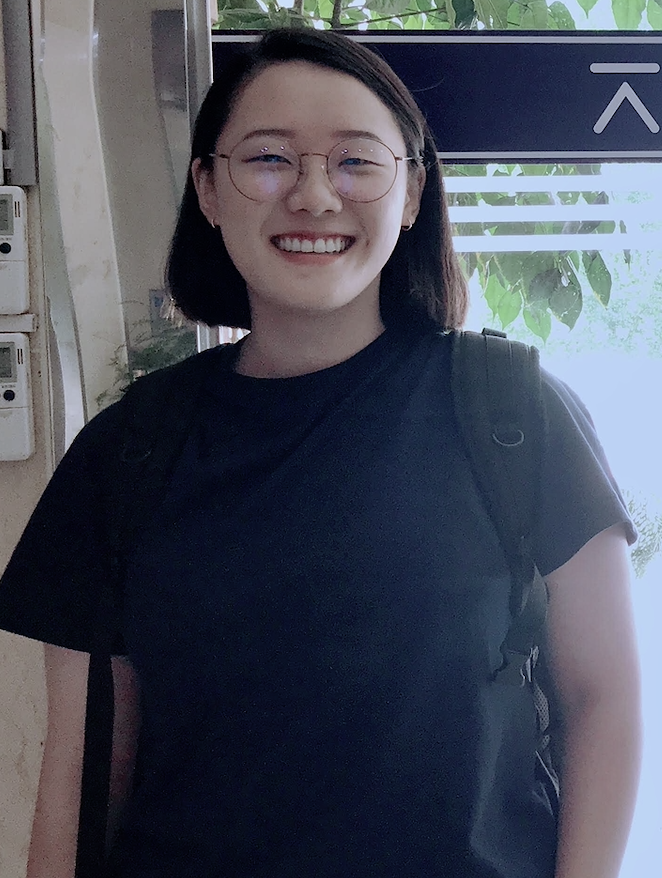
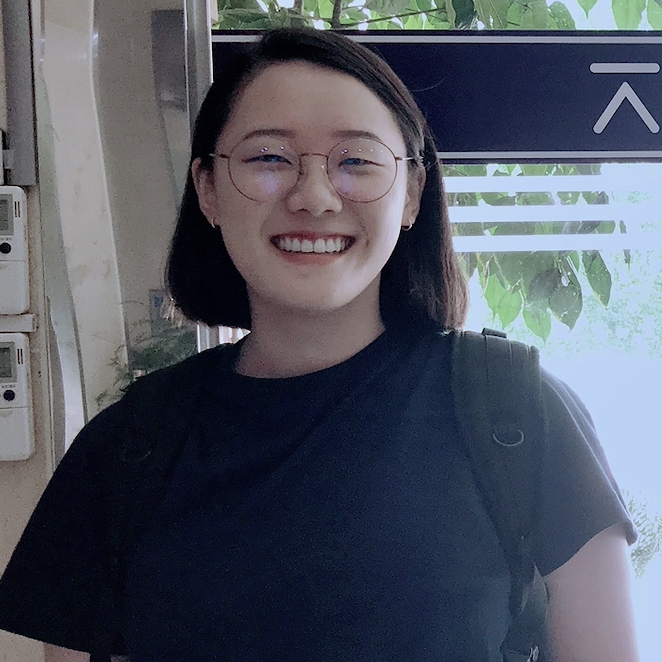
Make tutor photos square and the same size
Resolves #2

diff --git a/src/tutors/index.html b/src/tutors/index.html
@@ -163,7 +163,7 @@
         <div id="contentHeader">
           
           <div class="articleEntry" style="background: none">
-            <img src="../images/tutor-photos/nicole_photo.jpg" alt="Nicole Photo" width="175" height="140">
+            <img src="../images/tutor-photos/nicole_photo.jpg" alt="Nicole Photo" width="175" height="175">
             <div>
               <h1 id="head-tutor">Head Tutor: Nicole Anderson-Au</h1>
               <p class="subtitle">Class of 2020, nander17@calpoly.edu</p>
@@ -181,7 +181,7 @@
           </div>
 
           <div class="articleEntry">
-            <img src="../images/tutor-photos/austin_photo.jpg" alt="Austin Photo" width="175" height="140">
+            <img src="../images/tutor-photos/austin_photo.jpg" alt="Austin Photo" width="175" height="175">
             <div>
               <h2>Austin Shin</h2>
               <p class="subtitle">Class of 2021</p>
@@ -197,7 +197,7 @@
           </div>
 
           <div class="articleEntry">
-            <img src="../images/tutor-photos/cole_photo.jpg" alt="Cole Photo" width="175" height="140">
+            <img src="../images/tutor-photos/cole_photo.jpg" alt="Cole Photo" width="175" height="175">
             <div>
               <h2>Cole Cummins</h2>
               <p class="subtitle">Class of 2020</p>
@@ -213,7 +213,7 @@
           </div>
 
           <div class="articleEntry">
-            <img src="../images/tutor-photos/james_photo.JPG" alt="James Photo" width="175" height="140">
+            <img src="../images/tutor-photos/james_photo.JPG" alt="James Photo" width="175" height="175">
             <div>
               <h2>James Asbury</h2>
               <p class="subtitle">Class of 2020</p>
@@ -230,7 +230,7 @@
           </div>
 
           <div class="articleEntry">
-            <img src="../images/tutor-photos/jeremy_photo.jpg" alt="Jeremy Photo" width="175" height="140">
+            <img src="../images/tutor-photos/jeremy_photo.jpg" alt="Jeremy Photo" width="175" height="175">
             <div>
               <h2>Jeremy Berchtold</h2>
               <p class="subtitle">Class of 2021</p>
@@ -245,7 +245,7 @@
           </div>
 
           <div class="articleEntry">
-            <img src="../images/tutor-photos/jiwon_photo.jpg" alt="Jiwon Photo" width="175" height="140">
+            <img src="../images/tutor-photos/jiwon_photo.jpg" alt="Jiwon Photo" width="175" height="175">
             <div>
               <h2>Jiwon Lee</h2>
               <p class="subtitle">Class of 2021</p>
@@ -262,7 +262,7 @@
           </div>
 
           <div class="articleEntry">
-            <img src="../images/tutor-photos/nathan_photo.png" alt="Nathan Photo" width="175" height="140">
+            <img src="../images/tutor-photos/nathan_photo.png" alt="Nathan Photo" width="175" height="175">
             <div>
               <h2>Nathan Lui</h2>
               <p class="subtitle">Class of 2020</p>
